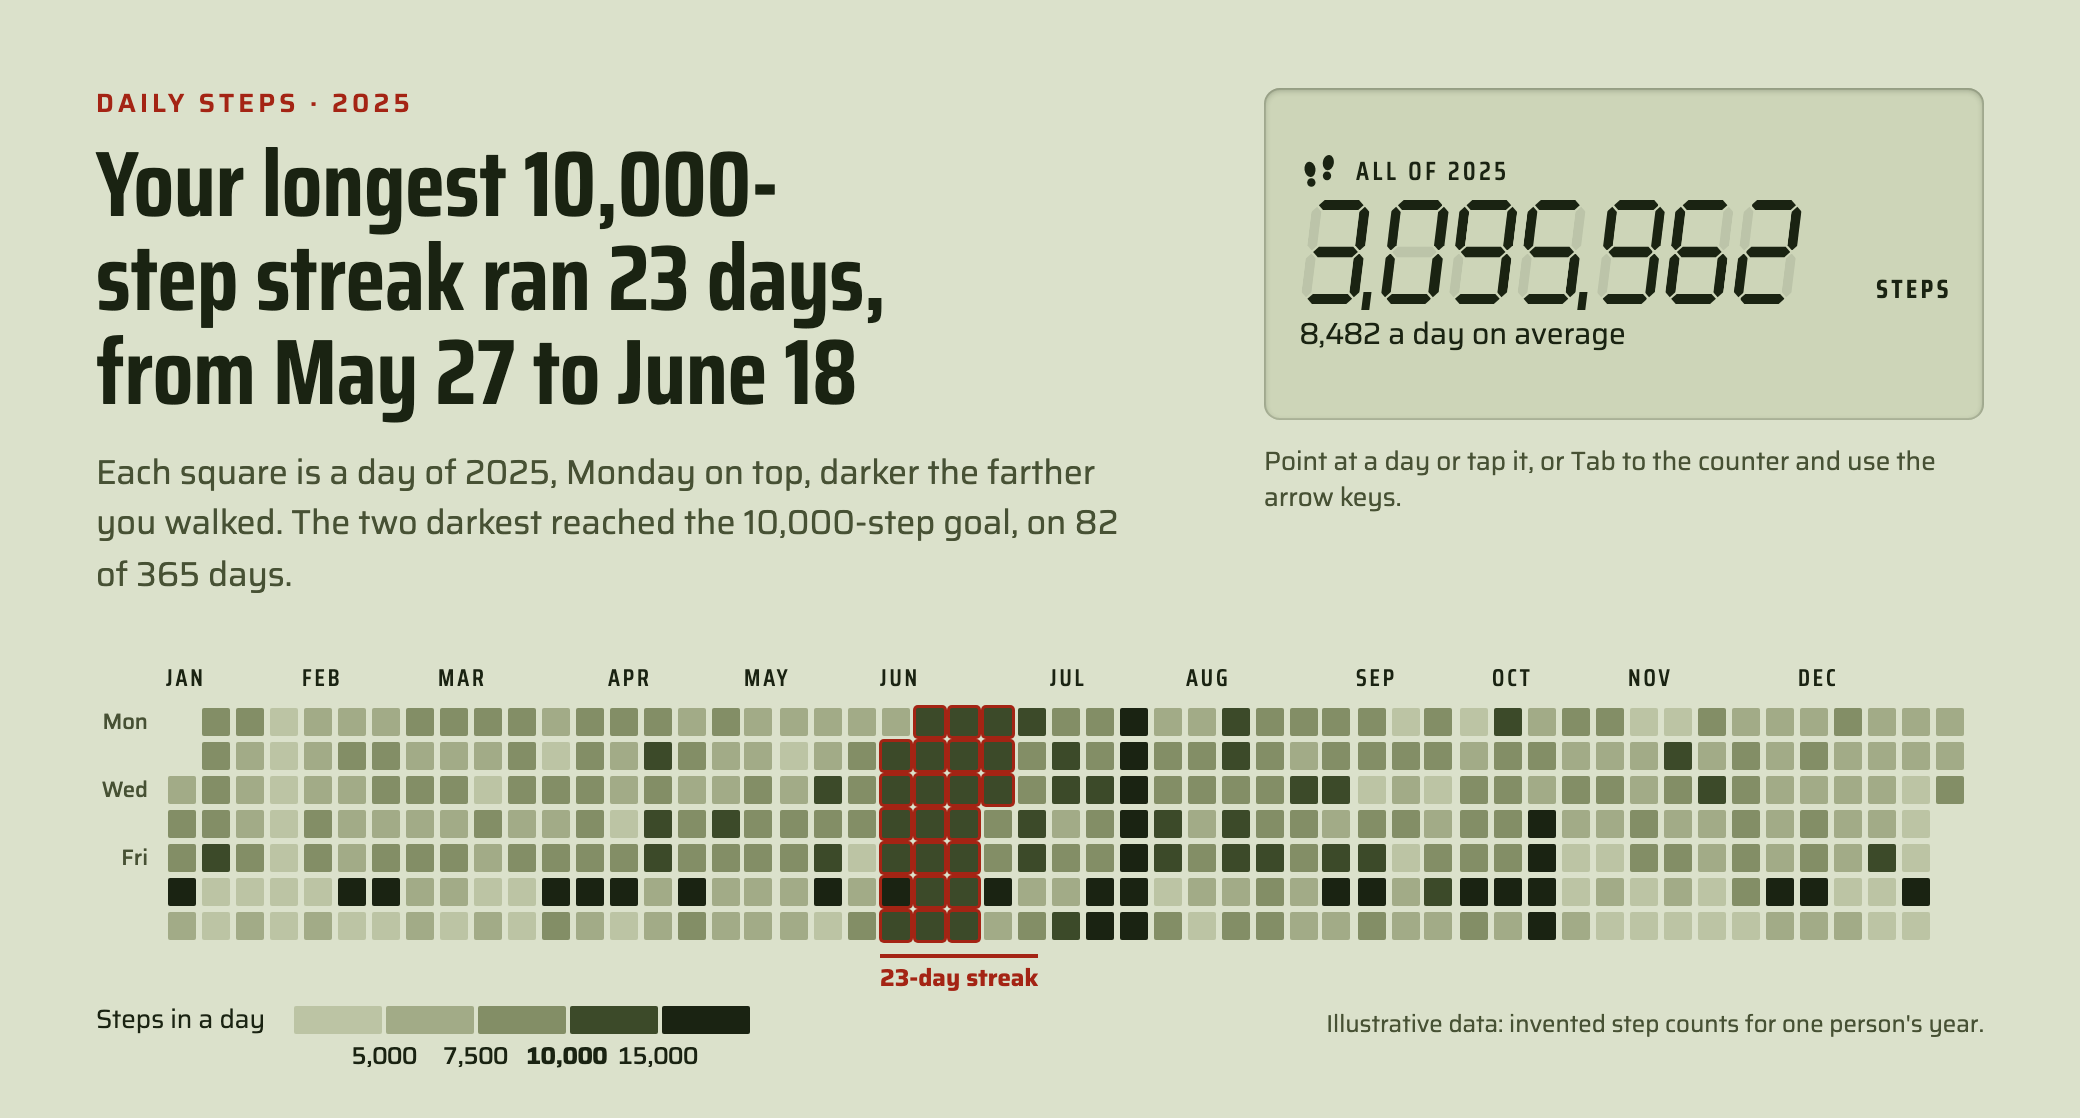
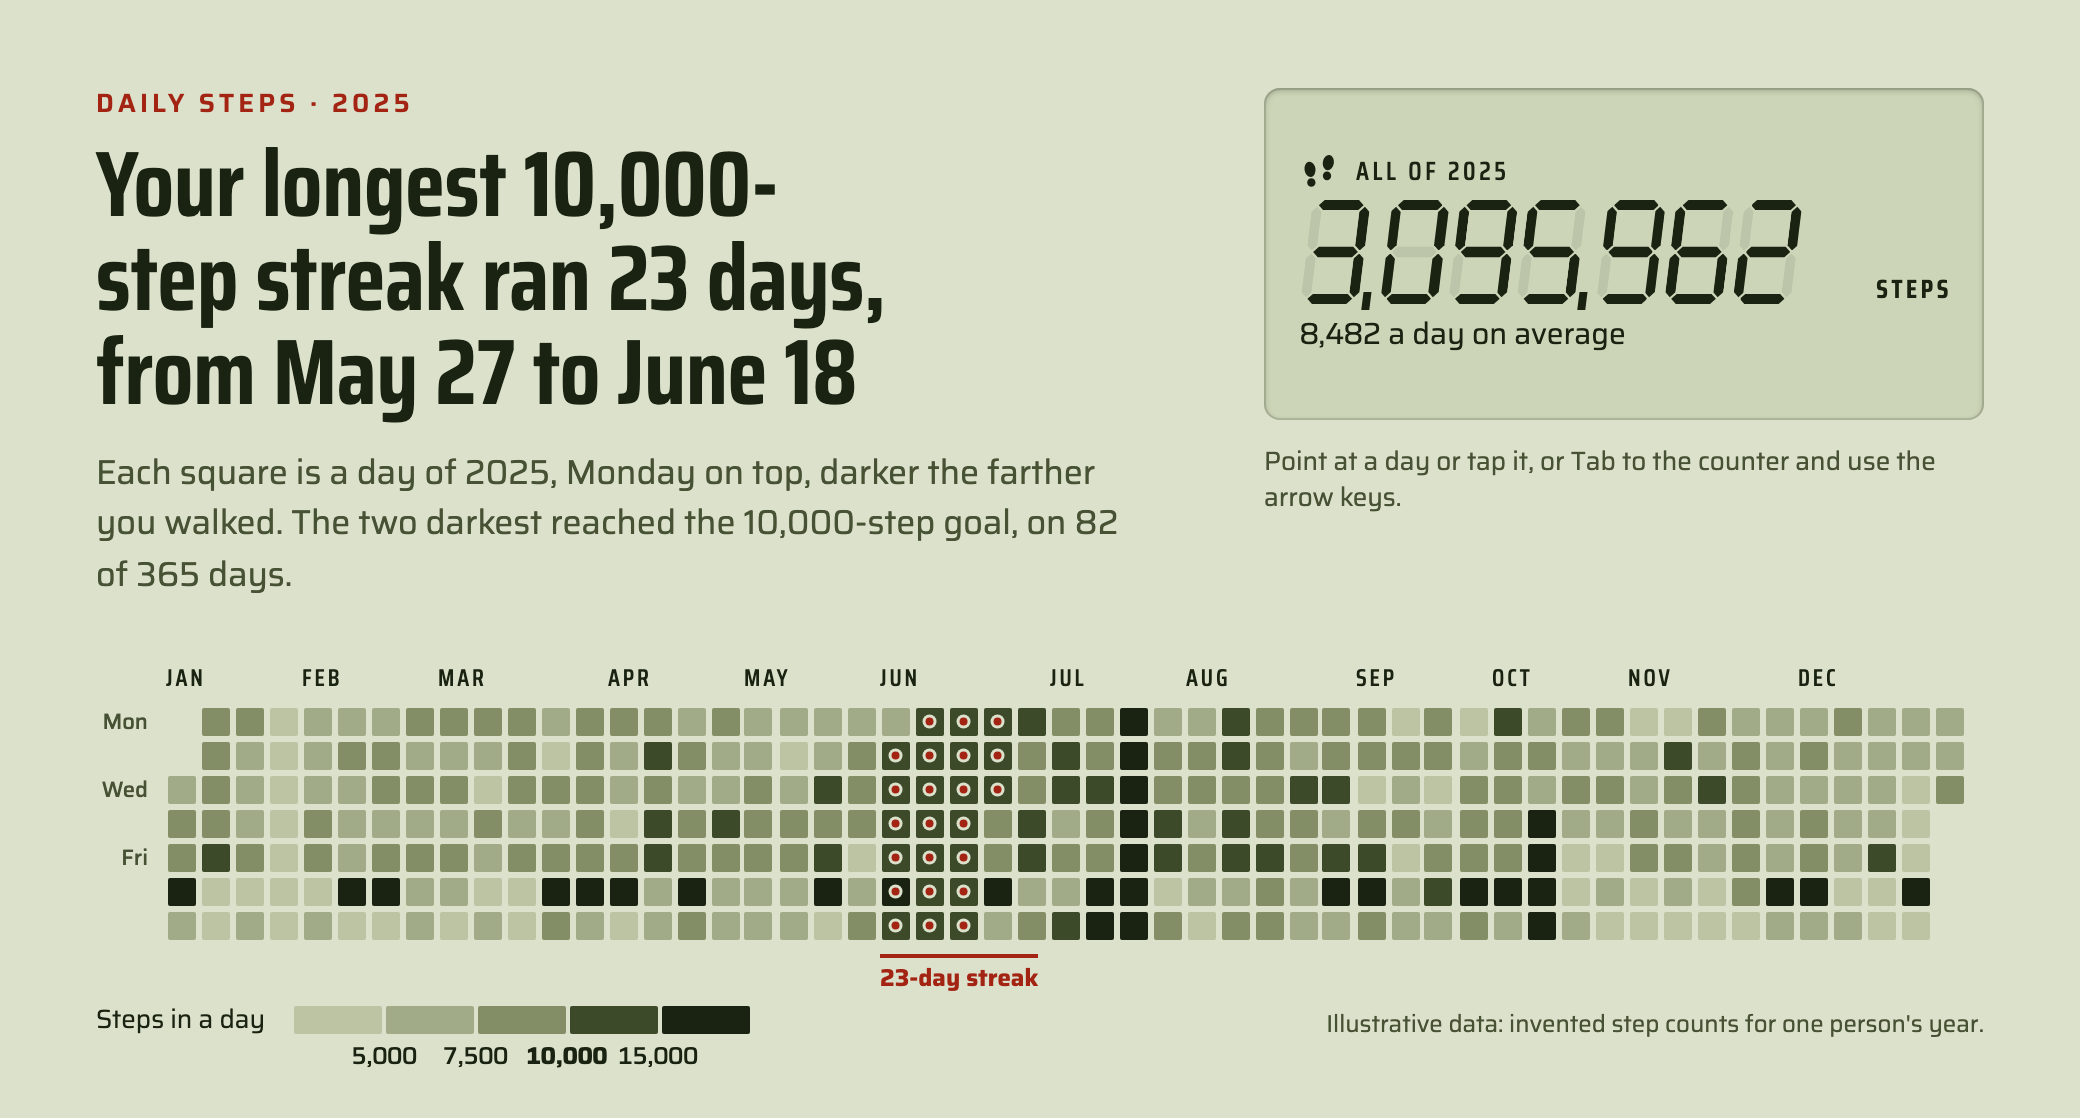
Recipe 36 (calendar heatmap, steps): the streak's days carry a small red dot ringed in the paper instead of a red outline, so the dot shows on the darkest inks and the square's own color stays around it; pointing off the calendar resets the counter as leaving the poster does

Changed region(s): [[0.4062, 0.6082, 0.5, 0.8515]]

diff --git a/public/gallery/posters/daily-steps/index.html b/public/gallery/posters/daily-steps/index.html
@@ -233,11 +233,11 @@ const THEME = {
 };
 
 // Slat types: a week is a column of seven days, Monday on top, with the month that opens in it above and the
-// streak's label below. A day is one square of the LCD, in its ink; the day picked is ringed in ink, the streak in red.
+// streak's label below. A day is one square of the LCD, in its ink; the day picked is ringed in ink, and each day of the streak has a red dot, ringed in the paper so it shows on the darkest inks.
 const WEEK = {
   css: `
     .px { --rhp-radius: 1px; --rhp-cell-gap: 1.5px; }
-    .run .px { box-shadow: 0 0 0 1.5px var(--rhp-series-6); }
+    .run .px::after { content: ""; position: absolute; top: 50%; left: 50%; width: 32%; aspect-ratio: 1; translate: -50% -50%; border-radius: 50%; background: var(--rhp-series-6); box-shadow: 0 0 0 1.5px var(--rhp-surface); }
     .on { z-index: 1; }
     .on .px { box-shadow: 0 0 0 2px var(--rhp-ink), inset 0 0 0 1.5px var(--rhp-surface); }
     .none .px { background: transparent; box-shadow: inset 0 0 0 1px var(--rhp-series-3); }
@@ -317,7 +317,10 @@ function StepYear() {
     const square = el.closest?.("[data-day]");
     return square ? +square.dataset.day : null;
   };
+  // Pointing: a day shows it and a gap between days keeps the last one; off the calendar, the counter goes back as when
+  // the pointer leaves the poster
   const point = (e) => {
+    if (!e.target.closest?.(".cal")) return leave(e);
     const i = dayOf(e.target);
     if (i != null) setHover(i);
   };
